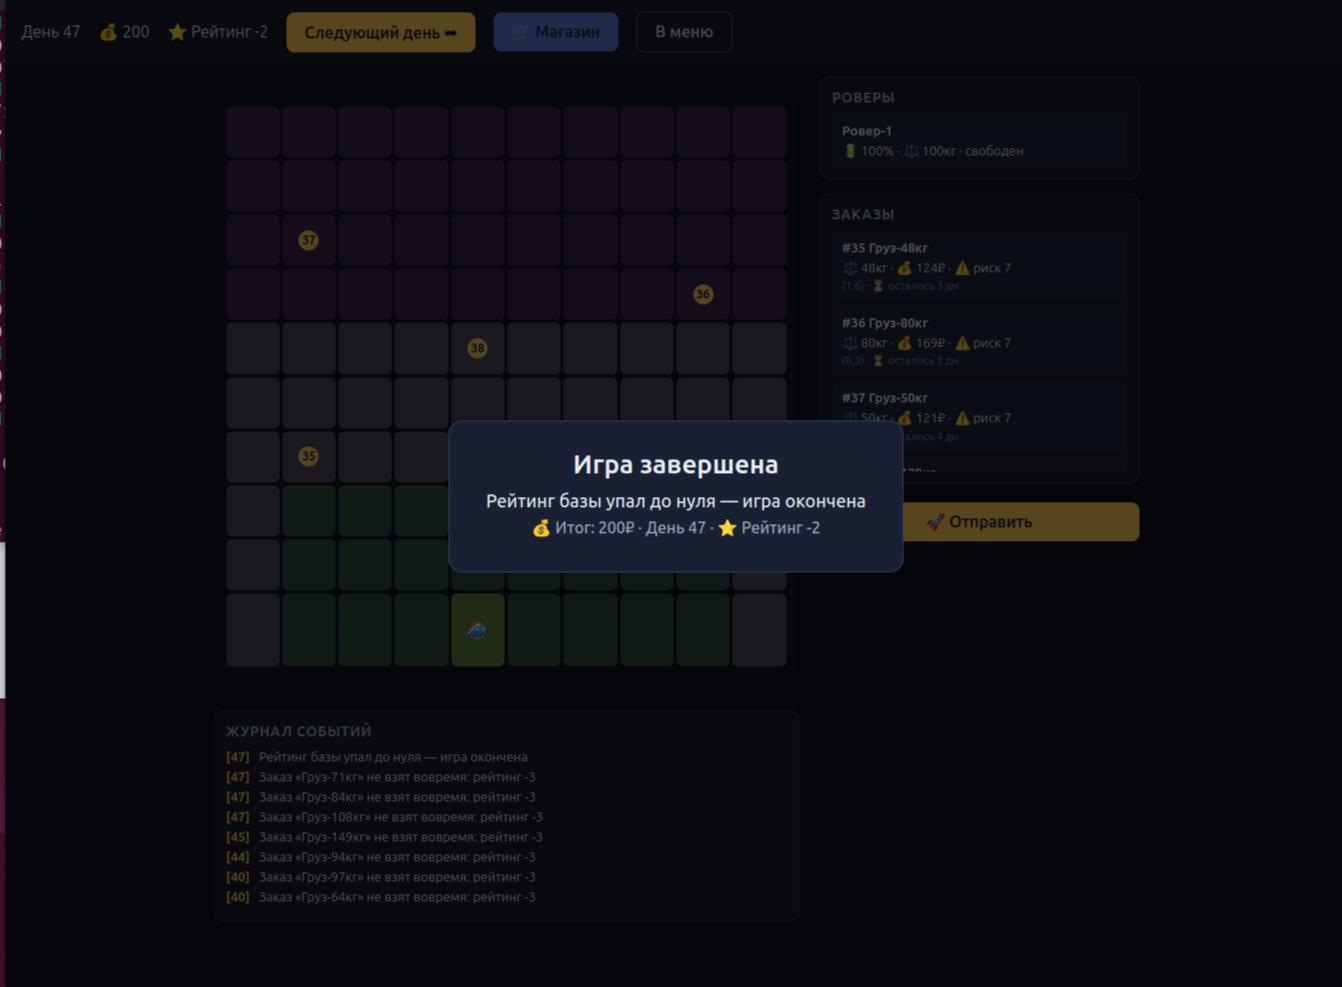
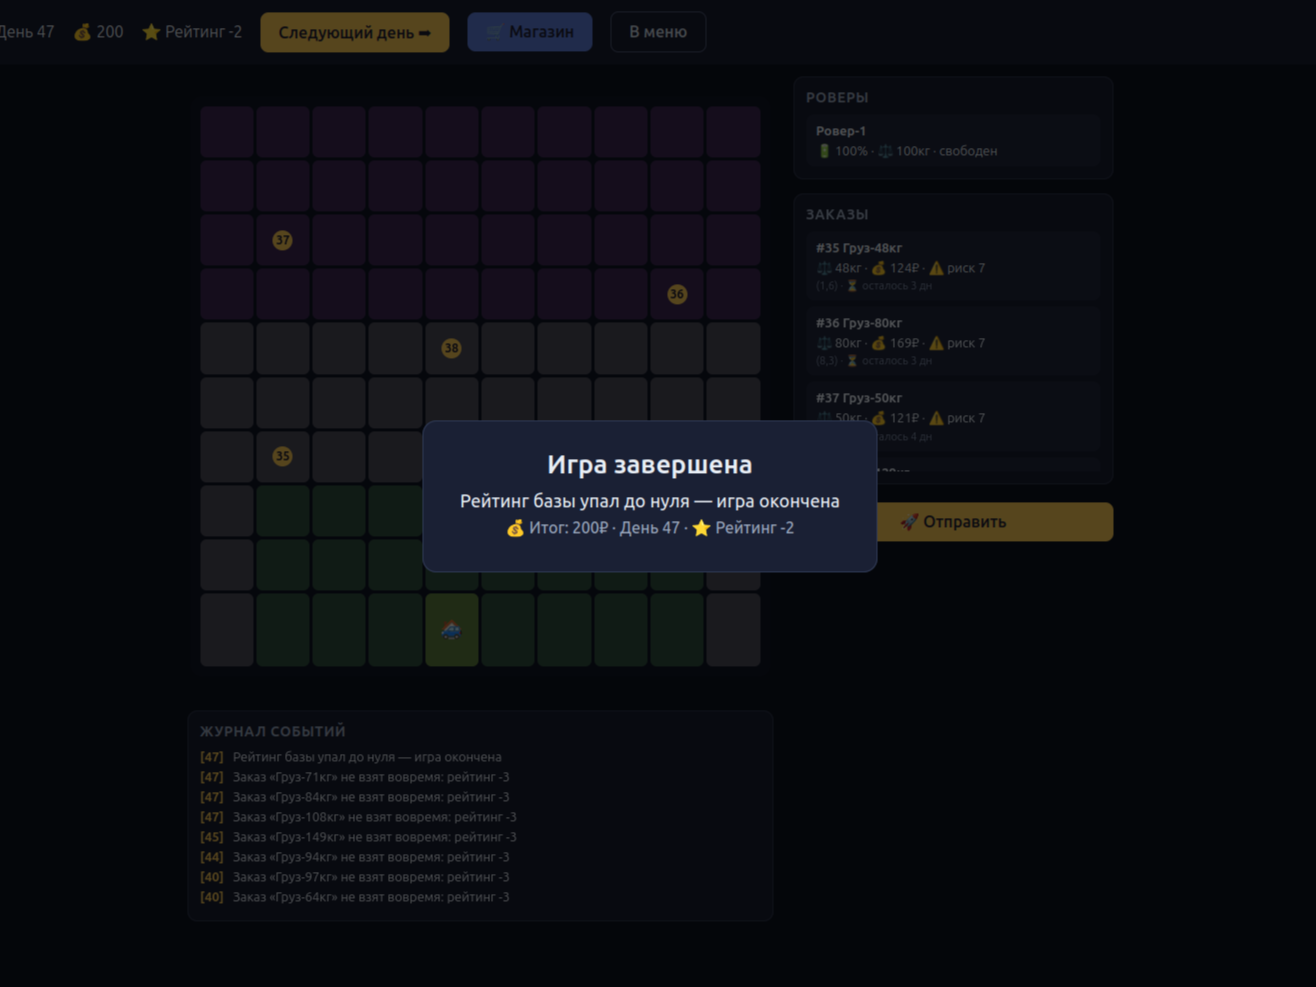
readme

diff --git a/readme.md b/readme.md
@@ -53,7 +53,34 @@ npm install
 npm run dev        # http://localhost:5173, proxy /api → localhost:8080
 ```
 
----
+## Скриншоты
+
+Экран меню:
+
+![Меню](menu.png)
+
+Основной интерфейс — карта, заказы, роверы, журнал событий:
+
+![Интерфейс](ui.png)
+
+Магазин:
+
+![Магазин](store.png)
+
+Экран победы:
+
+![Победа](win.png)
+
+Экран поражения:
+
+![Поражение](loss.png)
+
+Примеры ошибок валидации:
+
+![Слишком тяжёлый груз](too%20heavy.png)
+
+![Не хватает батареи на маршрут](not%20enough%20battery.png)
+
 
 ## Карта и зоны
 
